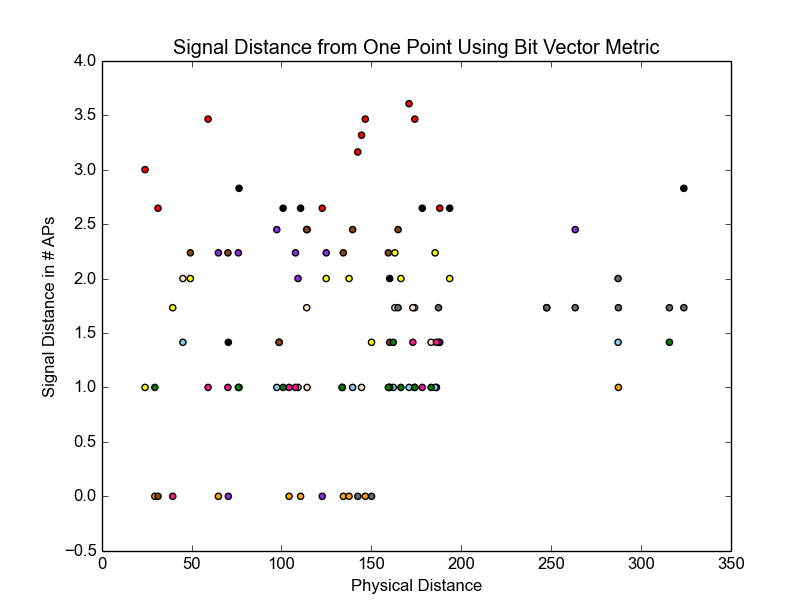
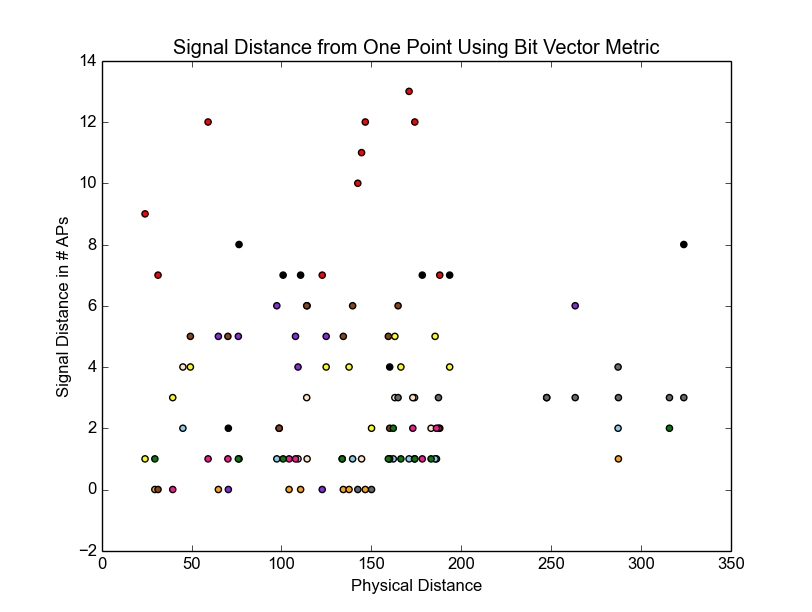
fixed analysis and added new figures

diff --git a/MITTunnels/analysis/wifi_data_analysis.py b/MITTunnels/analysis/wifi_data_analysis.py
@@ -8,9 +8,11 @@ data = json.load(json_data)
 
 print(type(data))
 locations = {}
+macs = {}
 
 for x in data['results']:
     locations[x['x'] + ", " + x['y']] = []#.append({x['MAC'] : x['LEVEL']})
+    macs[x['MAC']] = x['MAC'] 
 
 for x in data['results']:
     locations[x['x'] + ", " + x['y']].append({'MAC':x['MAC'], 'LEVEL': x['LEVEL'], 'x':x['x'], 'y':x['y']})
@@ -20,11 +22,11 @@ for x in locations:
 
 distances_loc = []
 distances_signal = []
-color_list = ["Black", "Bisque", "Red", "DimGray", "SkyBlue", "Orange", "DeepPink", "BlueViolet", "SaddleBrown", "Yellow", "Green", "IndianRed", "Salmon", "SpringGreen", "DarkOliveGreen", "LightSteelBlue", "Ivory", "Gray", "MistyRose", "Goldenrod", "Orchid"]
+color_list = ["Black", "Green", "Red", "DimGray", "SkyBlue", "Orange", "DeepPink", "BlueViolet", "Yellow", "Green", "IndianRed",  "SpringGreen", "DarkOliveGreen", "LightSteelBlue", "Ivory", "Gray", "MistyRose", "Goldenrod", "Orchid"]
 colors = []
 color_count = 0 
 
-"""for a, i in locations.items():
+for a, i in locations.items():
     color_count += 1
     for b, j in locations.items():
         if i != j:
@@ -37,10 +39,18 @@ color_count = 0
                     if k['MAC'] == l['MAC']:
                         current_dist -=  float(l['LEVEL'])
                 dist_sum += current_dist**2
+            for k in j:
+               ##print(k)
+                current_dist = float(k['LEVEL'])
+                for l in i:
+                    if k['MAC'] == l['MAC']:
+                        current_dist = 0
+                dist_sum += current_dist**2
+
             distances_loc.append(loc_dist)
             distances_signal.append(dist_sum**.5)
 	    colors.append(color_list[color_count-1])
-"""
+
  
 #plt.figure(1)           
 #plt.subplot(111)
@@ -49,7 +59,7 @@ color_count = 0
 #plt.ylabel('Signal Euclidian Distance')
 #plt.xlabel('Physical Distance')
 
-            
+"""
 for a, i in locations.items():
     color_count += 1
     for b, j in locations.items():
@@ -68,10 +78,24 @@ for a, i in locations.items():
                             current_dist += 0
                         else:
                             current_dist -= 1
-                dist_sum += current_dist
-            distances_loc.append(loc_dist)
-            distances_signal.append(dist_sum**.5)
+                dist_sum += abs(current_dist)
+            for k in j:
+                if k['LEVEL'] == '0':
+                    current_dist = 0
+                else:
+                    current_dist = 1
+                for l in i:
+                    if k['MAC'] == l['MAC']:
+                        if l['LEVEL'] == '0':
+                            current_dist += 0
+                        else:
+                            current_dist -= 1
+                dist_sum += abs(current_dist)
+
+	    distances_loc.append(loc_dist)
+            distances_signal.append(dist_sum)
             colors.append(color_list[color_count-1])
+"""
 #            
 #
 #plt.scatter(distances_loc, distances_signal)
